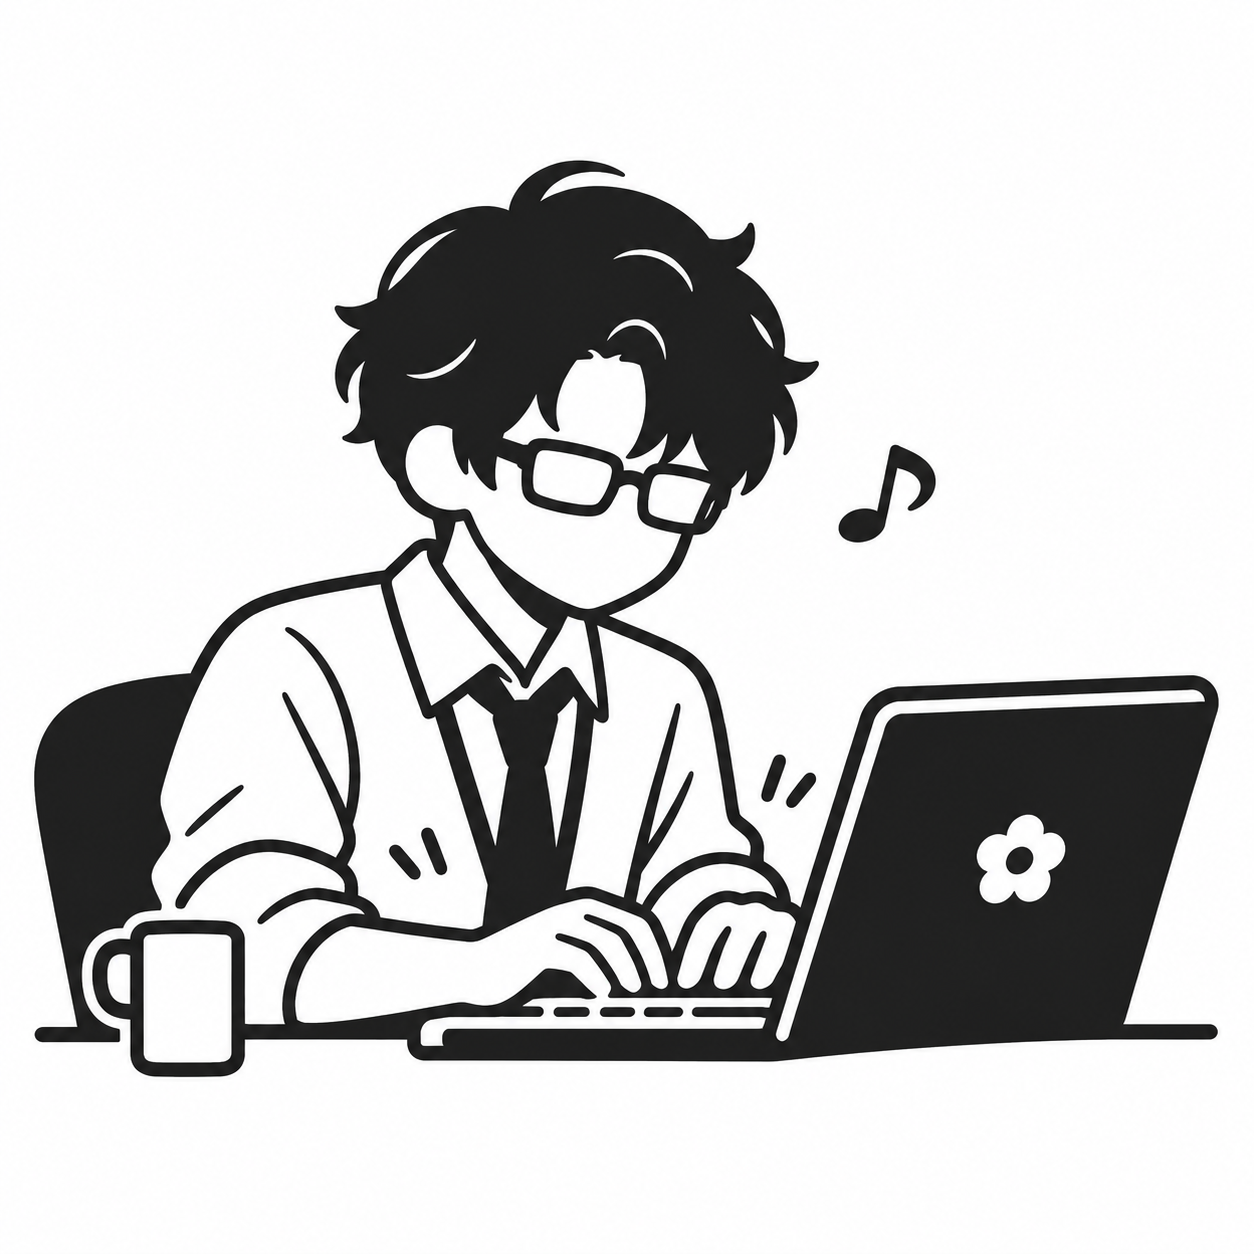
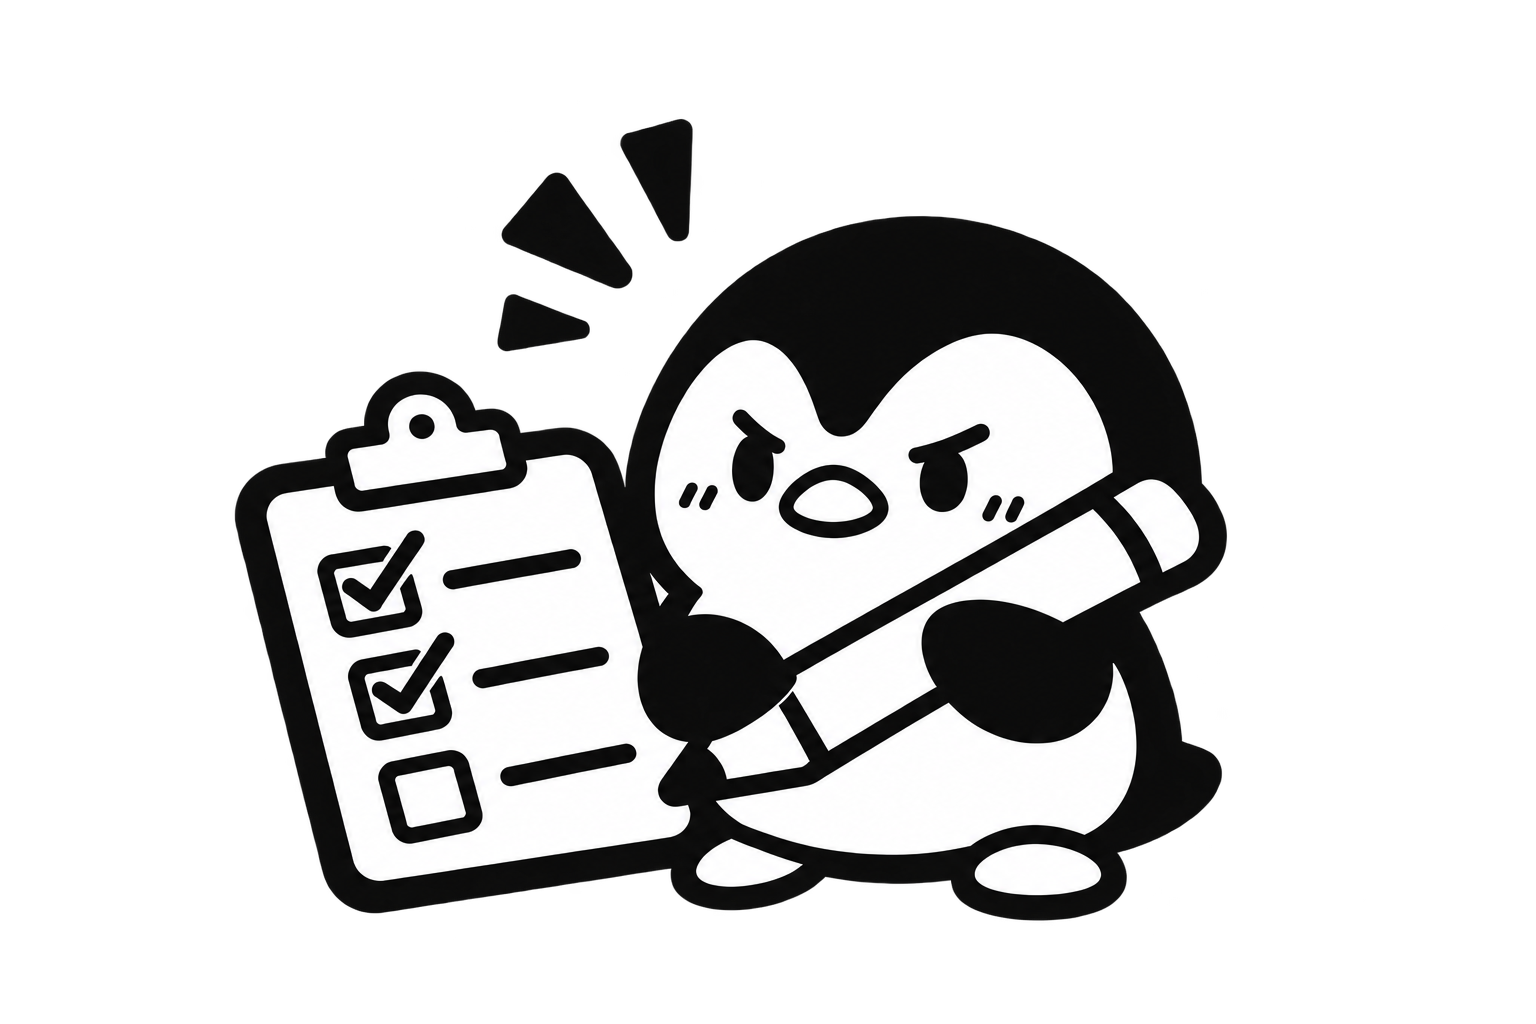
表デザイン修正

Changed region(s): [[0.0311, 0.0938, 0.9952, 0.9062]]

diff --git a/src/main/resources/templates/todos.html b/src/main/resources/templates/todos.html
@@ -4,39 +4,62 @@
     <meta charset="UTF-8">
     <meta name="viewport" content="width=device-width, initial-scale=1">
     <title>やること一覧</title>
-    <link rel="stylesheet" href="/css/style.css?v=20261126-2" th:href="@{/css/style.css(v='20261126-2')}">
+    <link rel="stylesheet" href="/css/style.css?v=20261126-6" th:href="@{/css/style.css(v='20261126-6')}">
 </head>
 <body>
     <main class="container">
-        <div class="page-heading"><h1 class="page-title">やること一覧</h1><img class="title-image" src="/images/todo-person.png" alt="" width="44" height="44"></div>
+        <header class="list-header">
+            <div class="page-heading"><h1 class="page-title">やること一覧</h1><img class="title-image" src="/images/todo-person.png" alt="" width="88" height="72"></div>
+            <nav class="list-actions" aria-label="一覧の操作">
+                <a class="btn sub" href="/calendar">カレンダーで見る</a>
+                <a class="btn" href="/todos/new">新規登録</a>
+            </nav>
+        </header>
         <p class="flash" th:if="${message}" th:text="${message}"></p>
-        <p><a class="btn" href="/todos/new">新規登録</a> <a class="link" href="/calendar">カレンダーで見る</a></p>
-        <form class="search-bar" action="/todos" method="get">
-            <label for="keyword">やることの名前</label>
-            <input class="form-input" id="keyword" type="text" name="keyword" th:value="${keyword}">
-            <label for="category">ジャンル</label>
-            <select class="form-input" id="category" name="category">
-                <option value="" th:selected="${category == ''}">すべて</option>
+        <form id="list-filters" class="list-filters" action="/todos" method="get" aria-label="やることの検索と並び替え">
+            <div class="filter-field filter-keyword">
+                <label for="keyword">やることの名前</label>
+                <input class="form-input" id="keyword" type="search" name="keyword" placeholder="名前で検索" th:value="${keyword}">
+            </div>
+            <div class="filter-field">
+                <label for="order">並び順</label>
+                <select class="form-input" id="order" name="order">
+                    <option value="asc" th:selected="${order == 'asc'}">期限が近い順</option>
+                    <option value="desc" th:selected="${order == 'desc'}">期限が遠い順</option>
+                </select>
+            </div>
+            <button class="btn filter-submit" type="submit">適用</button>
+            <a class="link filter-reset" href="/todos" th:if="${keyword != '' or category != '' or priority != null or completed != null or order == 'desc'}">条件をクリア</a>
+        </form>
+        <p th:if="${#lists.isEmpty(todos)}">条件に一致するやることがありません。</p>
+        <table class="todo-table">
+            <thead>
+                <tr>
+                    <th>やること</th>
+                    <th><select class="column-filter" id="category" name="category" form="list-filters" aria-label="ジャンルで絞り込み" onchange="this.form.requestSubmit()">
+                <option value="" th:selected="${category == ''}">ジャンル：すべて</option>
                 <option value="デザイン" th:selected="${category == 'デザイン'}">デザイン</option>
                 <option value="マーケティング" th:selected="${category == 'マーケティング'}">マーケティング</option>
                 <option value="プログラミング" th:selected="${category == 'プログラミング'}">プログラミング</option>
                 <option value="資格" th:selected="${category == '資格'}">資格</option>
                 <option value="就職活動" th:selected="${category == '就職活動'}">就職活動</option>
-            </select>
-            <input type="hidden" name="order" th:value="${order}">
-            <button class="btn" type="submit">絞り込む</button>
-            <a class="link" th:href="@{/todos(keyword=${keyword},category=${category},order='asc')}">期限が近い順</a>
-            <a class="link" th:href="@{/todos(keyword=${keyword},category=${category},order='desc')}">期限が遠い順</a>
-        </form>
-        <p th:if="${#lists.isEmpty(todos)}">まだ1件も登録されていません</p>
-        <table class="todo-table" th:unless="${#lists.isEmpty(todos)}">
-            <thead>
-                <tr>
-                    <th>やること</th>
-                    <th>ジャンル</th>
-                    <th>優先度</th>
+            </select></th>
+                    <th>
+                        <select class="column-filter" name="priority" form="list-filters" aria-label="優先度で絞り込み" onchange="this.form.requestSubmit()">
+                            <option value="" th:selected="${priority == null}">優先度：すべて</option>
+                            <option value="1" th:selected="${priority == 1}">高</option>
+                            <option value="2" th:selected="${priority == 2}">中</option>
+                            <option value="3" th:selected="${priority == 3}">低</option>
+                        </select>
+                    </th>
                     <th>期限</th>
-                    <th>状態</th>
+                    <th>
+                        <select class="column-filter" name="completed" form="list-filters" aria-label="状態で絞り込み" onchange="this.form.requestSubmit()">
+                            <option value="" th:selected="${completed == null}">状態：すべて</option>
+                            <option value="false" th:selected="${completed == false}">未完了</option>
+                            <option value="true" th:selected="${completed == true}">完了</option>
+                        </select>
+                    </th>
                     <th>操作</th>
                 </tr>
             </thead>
@@ -55,15 +78,15 @@
            th:text="|全${todoPage.totalElements}件中 ${startItem}-${endItem}件|">全50件中 1-10件</p>
         <nav class="pagination" aria-label="ページネーション" th:if="${todoPage.totalPages > 1}">
             <a class="page-link" th:if="${todoPage.hasPrevious()}"
-               th:href="@{/todos(page=${todoPage.number - 1},keyword=${keyword},category=${category},order=${order})}">前へ</a>
+               th:href="@{/todos(page=${todoPage.number - 1},keyword=${keyword},category=${category},priority=${priority},completed=${completed},order=${order})}">前へ</a>
             <span class="page-link disabled" th:unless="${todoPage.hasPrevious()}">前へ</span>
             <a class="page-link" th:each="pageNumber : ${#numbers.sequence(0, todoPage.totalPages - 1)}"
-               th:href="@{/todos(page=${pageNumber},keyword=${keyword},category=${category},order=${order})}"
+               th:href="@{/todos(page=${pageNumber},keyword=${keyword},category=${category},priority=${priority},completed=${completed},order=${order})}"
                th:text="${pageNumber + 1}"
                th:classappend="${pageNumber == todoPage.number} ? ' active' : ''"
                th:attr="aria-current=${pageNumber == todoPage.number ? 'page' : null}">1</a>
             <a class="page-link" th:if="${todoPage.hasNext()}"
-               th:href="@{/todos(page=${todoPage.number + 1},keyword=${keyword},category=${category},order=${order})}">次へ</a>
+               th:href="@{/todos(page=${todoPage.number + 1},keyword=${keyword},category=${category},priority=${priority},completed=${completed},order=${order})}">次へ</a>
             <span class="page-link disabled" th:unless="${todoPage.hasNext()}">次へ</span>
         </nav>
     </main>

diff --git a/src/main/resources/static/css/style.css b/src/main/resources/static/css/style.css
@@ -43,6 +43,11 @@ body {
     font-weight: bold;
 }
 
+.todo-table th:last-child,
+.todo-table td:last-child {
+    white-space: nowrap;
+}
+
 .flash {
     margin: 0 0 16px;
     border: 1px solid #b8aaa0;
@@ -225,11 +230,10 @@ body {
     margin: 0;
 }
 .title-image {
-    flex: 0 0 44px;
-    width: 44px;
-    height: 44px;
+    flex: 0 0 88px;
+    width: 88px;
+    height: 72px;
     object-fit: contain;
-    mix-blend-mode: multiply;
 }
 .todo-table td,
 .calendar-table td {
@@ -245,3 +249,66 @@ body {
     outline: 3px solid #a76b32;
     outline-offset: 3px;
 }
+
+.list-header {
+    display: flex;
+    align-items: center;
+    justify-content: space-between;
+    flex-wrap: wrap;
+    gap: 16px;
+    margin-bottom: 24px;
+}
+.list-header .page-heading { margin: 0; }
+.list-actions { display: flex; flex-wrap: wrap; gap: 10px; }
+.list-actions .btn { white-space: nowrap; }
+.list-filters {
+    display: grid;
+    grid-template-columns: minmax(180px, 1.5fr) minmax(150px, 1fr) auto;
+    align-items: end;
+    gap: 12px 16px;
+    margin: 0 0 24px;
+    padding: 20px;
+    border: 1px solid #c4bab3;
+    border-radius: 12px;
+    background: #f4ede7;
+}
+.filter-field { min-width: 0; }
+.filter-field label {
+    display: block;
+    margin-bottom: 6px;
+    font-size: 14px;
+    font-weight: 600;
+}
+.list-filters .form-input, .filter-submit { min-height: 44px; }
+.filter-reset {
+    grid-column: 1 / -1;
+    justify-self: start;
+    padding: 4px 0;
+    font-size: 14px;
+}
+@media (max-width: 760px) {
+    .list-filters {
+        grid-template-columns: minmax(0, 1fr) minmax(0, 1fr);
+        padding: 16px;
+    }
+    .filter-keyword, .filter-submit { grid-column: 1 / -1; }
+}
+@media (max-width: 420px) {
+    .list-filters { grid-template-columns: minmax(0, 1fr); }
+    .list-actions { width: 100%; }
+    .list-actions .btn { flex: 1; padding-inline: 12px; text-align: center; }
+}
+
+/* 一覧の列見出しから絞り込む */
+.column-filter {
+    font: inherit;
+    font-weight: inherit;
+    color: inherit;
+    background-color: transparent;
+    border: 1px solid currentColor;
+    border-radius: 4px;
+    padding: 6px 8px;
+    max-width: 100%;
+    cursor: pointer;
+}
+.column-filter option { color: #222; background: #fff; }

diff --git a/src/main/resources/templates/edit-confirm.html b/src/main/resources/templates/edit-confirm.html
@@ -4,11 +4,11 @@
     <meta charset="UTF-8">
     <meta name="viewport" content="width=device-width, initial-scale=1">
     <title>編集内容の確認</title>
-    <link rel="stylesheet" href="/css/style.css?v=20261126-2" th:href="@{/css/style.css(v='20261126-2')}">
+    <link rel="stylesheet" href="/css/style.css?v=20261126-5" th:href="@{/css/style.css(v='20261126-5')}">
 </head>
 <body>
     <main class="container">
-        <div class="page-heading"><h1 class="page-title">編集内容の確認</h1><img class="title-image" src="/images/todo-person.png" alt="" width="44" height="44"></div>
+        <div class="page-heading"><h1 class="page-title">編集内容の確認</h1><img class="title-image" src="/images/todo-person.png" alt="" width="88" height="72"></div>
         <p class="confirm-value">やること：<span th:text="${#strings.isEmpty(todo.title) ? '（入力なし）' : todo.title}">やること</span></p>
         <p class="confirm-value">メモ：<span th:text="${#strings.isEmpty(todo.detail) ? '（入力なし）' : todo.detail}">メモ</span></p>
         <p class="confirm-value">ジャンル：<span th:text="${#strings.isEmpty(todo.category) ? '（入力なし）' : todo.category}">ジャンル</span></p>

diff --git a/src/main/resources/templates/create-confirm.html b/src/main/resources/templates/create-confirm.html
@@ -4,11 +4,11 @@
     <meta charset="UTF-8">
     <meta name="viewport" content="width=device-width, initial-scale=1">
     <title>ToDo登録の確認</title>
-    <link rel="stylesheet" href="/css/style.css?v=20261126-2" th:href="@{/css/style.css(v='20261126-2')}">
+    <link rel="stylesheet" href="/css/style.css?v=20261126-5" th:href="@{/css/style.css(v='20261126-5')}">
 </head>
 <body>
     <main class="container">
-        <div class="page-heading"><h1 class="page-title">ToDo登録の確認</h1><img class="title-image" src="/images/todo-person.png" alt="" width="44" height="44"></div>
+        <div class="page-heading"><h1 class="page-title">ToDo登録の確認</h1><img class="title-image" src="/images/todo-person.png" alt="" width="88" height="72"></div>
         <p class="confirm-value">やること：<span th:text="${#strings.isEmpty(todo.title) ? '（入力なし）' : todo.title}">やること</span></p>
         <p class="confirm-value">メモ：<span th:text="${#strings.isEmpty(todo.detail) ? '（入力なし）' : todo.detail}">メモ</span></p>
         <p class="confirm-value">ジャンル：<span th:text="${#strings.isEmpty(todo.category) ? '（入力なし）' : todo.category}">ジャンル</span></p>

diff --git a/src/main/resources/templates/calendar.html b/src/main/resources/templates/calendar.html
@@ -4,11 +4,11 @@
     <meta charset="UTF-8">
     <meta name="viewport" content="width=device-width, initial-scale=1">
     <title>カレンダー</title>
-    <link rel="stylesheet" href="/css/style.css?v=20261126-2" th:href="@{/css/style.css(v='20261126-2')}">
+    <link rel="stylesheet" href="/css/style.css?v=20261126-5" th:href="@{/css/style.css(v='20261126-5')}">
 </head>
 <body>
     <main class="container">
-        <div class="page-heading"><h1 class="page-title" id="calendar-title" th:text="|${year}年${month}月|">2026年4月</h1><img class="title-image" src="/images/todo-person.png" alt="" width="44" height="44"></div>
+        <div class="page-heading"><h1 class="page-title" id="calendar-title" th:text="|${year}年${month}月|">2026年4月</h1><img class="title-image" src="/images/todo-person.png" alt="" width="88" height="72"></div>
         <nav class="calendar-navigation" aria-label="カレンダーの操作">
             <div class="calendar-navigation-group">
                 <a class="link" th:href="@{/calendar(year=${previousMonth.year},month=${previousMonth.monthValue})}">前の月</a>

diff --git a/src/main/resources/templates/delete.html b/src/main/resources/templates/delete.html
@@ -4,11 +4,11 @@
     <meta charset="UTF-8">
     <meta name="viewport" content="width=device-width, initial-scale=1">
     <title>やることの削除確認</title>
-    <link rel="stylesheet" href="/css/style.css?v=20261126-2" th:href="@{/css/style.css(v='20261126-2')}">
+    <link rel="stylesheet" href="/css/style.css?v=20261126-5" th:href="@{/css/style.css(v='20261126-5')}">
 </head>
 <body>
     <main class="container">
-        <div class="page-heading"><h1 class="page-title">やることの削除確認</h1><img class="title-image" src="/images/todo-person.png" alt="" width="44" height="44"></div>
+        <div class="page-heading"><h1 class="page-title">やることの削除確認</h1><img class="title-image" src="/images/todo-person.png" alt="" width="88" height="72"></div>
         <p class="confirm-value">やること：<span th:text="${todo.title}"></span></p>
         <p class="confirm-value">ジャンル：<span th:text="${todo.category}"></span></p>
         <p class="confirm-value">期限：<span th:text="${todo.dueDate != null ? todo.dueDate : '（入力なし）'}"></span></p>

diff --git a/src/main/resources/templates/edit.html b/src/main/resources/templates/edit.html
@@ -4,11 +4,11 @@
     <meta charset="UTF-8">
     <meta name="viewport" content="width=device-width, initial-scale=1">
     <title>やることを編集</title>
-    <link rel="stylesheet" href="/css/style.css?v=20261126-2" th:href="@{/css/style.css(v='20261126-2')}">
+    <link rel="stylesheet" href="/css/style.css?v=20261126-5" th:href="@{/css/style.css(v='20261126-5')}">
 </head>
 <body>
     <main class="container">
-        <div class="page-heading"><h1 class="page-title">やることを編集</h1><img class="title-image" src="/images/todo-person.png" alt="" width="44" height="44"></div>
+        <div class="page-heading"><h1 class="page-title">やることを編集</h1><img class="title-image" src="/images/todo-person.png" alt="" width="88" height="72"></div>
         <form method="post" th:action="@{/todos/{id}/confirm(id=${todoId})}" th:object="${todo}">
             <div class="form-row">
                 <label class="form-label" for="author">作成者</label>

diff --git a/src/main/resources/templates/create.html b/src/main/resources/templates/create.html
@@ -4,11 +4,11 @@
     <meta charset="UTF-8">
     <meta name="viewport" content="width=device-width, initial-scale=1">
     <title>ToDo登録</title>
-    <link rel="stylesheet" href="/css/style.css?v=20261126-2" th:href="@{/css/style.css(v='20261126-2')}">
+    <link rel="stylesheet" href="/css/style.css?v=20261126-5" th:href="@{/css/style.css(v='20261126-5')}">
 </head>
 <body>
     <main class="container">
-        <div class="page-heading"><h1 class="page-title">ToDo登録</h1><img class="title-image" src="/images/todo-person.png" alt="" width="44" height="44"></div>
+        <div class="page-heading"><h1 class="page-title">ToDo登録</h1><img class="title-image" src="/images/todo-person.png" alt="" width="88" height="72"></div>
         <form action="/todos/confirm" method="post" th:object="${todo}">
             <div class="form-row">
                 <label class="form-label" for="author">作成者</label>

diff --git a/src/main/resources/templates/index.html b/src/main/resources/templates/index.html
@@ -4,11 +4,11 @@
     <meta charset="UTF-8">
     <meta name="viewport" content="width=device-width, initial-scale=1">
     <title>ToDo</title>
-    <link rel="stylesheet" href="/css/style.css?v=20261126-2" th:href="@{/css/style.css(v='20261126-2')}">
+    <link rel="stylesheet" href="/css/style.css?v=20261126-5" th:href="@{/css/style.css(v='20261126-5')}">
 </head>
 <body>
     <main class="container">
-        <div class="page-heading"><h1 class="page-title" th:text="${title}">見出し</h1><img class="title-image" src="/images/todo-person.png" alt="" width="44" height="44"></div>
+        <div class="page-heading"><h1 class="page-title" th:text="${title}">見出し</h1><img class="title-image" src="/images/todo-person.png" alt="" width="88" height="72"></div>
         <p>今日やることを確認しましょう。</p>
     </main>
 </body>

diff --git a/src/main/java/com/example/todoapp/HomeController.java b/src/main/java/com/example/todoapp/HomeController.java
@@ -34,6 +34,8 @@ public class HomeController {
     public String todos(@RequestParam(defaultValue = "") String keyword,
                         @RequestParam(defaultValue = "") String category,
                         @RequestParam(defaultValue = "asc") String order,
+                        @RequestParam(required = false) Integer priority,
+                        @RequestParam(required = false) Boolean completed,
                         @PageableDefault(size = 10) Pageable pageable,
                         Model model) {
         if (!order.equals("desc")) {
@@ -41,11 +43,11 @@ public class HomeController {
         }
         int pageNumber = Math.max(0, pageable.getPageNumber());
         pageable = PageRequest.of(pageNumber, 10);
-        Page<Todo> todoPage = todoService.search(keyword, category, order, pageable);
+        Page<Todo> todoPage = todoService.search(keyword, category, order, priority, completed, null, null, pageable);
         if (todoPage.getTotalPages() > 0 && pageNumber >= todoPage.getTotalPages()) {
             pageNumber = todoPage.getTotalPages() - 1;
             pageable = PageRequest.of(pageNumber, 10);
-            todoPage = todoService.search(keyword, category, order, pageable);
+            todoPage = todoService.search(keyword, category, order, priority, completed, null, null, pageable);
         }
         model.addAttribute("todoPage", todoPage);
         model.addAttribute("todos", todoPage.getContent());
@@ -54,6 +56,8 @@ public class HomeController {
         model.addAttribute("keyword", keyword);
         model.addAttribute("category", category);
         model.addAttribute("order", order);
+        model.addAttribute("priority", priority);
+        model.addAttribute("completed", completed);
         return "todos";
     }
 

diff --git a/src/test/java/com/example/todoapp/TodoFilterTests.java b/src/test/java/com/example/todoapp/TodoFilterTests.java
@@ -1,0 +1,41 @@
+package com.example.todoapp;
+
+import java.util.HashMap;
+import java.util.Map;
+
+import org.apache.ibatis.builder.xml.XMLMapperBuilder;
+import org.apache.ibatis.io.Resources;
+import org.apache.ibatis.session.Configuration;
+import org.junit.jupiter.api.Test;
+
+import static org.junit.jupiter.api.Assertions.*;
+
+class TodoFilterTests {
+    @Test
+    void filtersApplyToBothRowsAndCountIncludingIncompleteStatus() throws Exception {
+        Configuration configuration = new Configuration();
+        try (var stream = Resources.getResourceAsStream("mapper/TodoMapper.xml")) {
+            new XMLMapperBuilder(stream, configuration, "mapper/TodoMapper.xml",
+                    configuration.getSqlFragments()).parse();
+        }
+        Map<String, Object> filters = new HashMap<>();
+        filters.put("category", "デザイン");
+        filters.put("priority", 1);
+        filters.put("completed", false);
+        for (String statement : new String[] {"searchPage", "countSearch"}) {
+            var mapped = configuration.getMappedStatement("com.example.todoapp.TodoMapper." + statement);
+            var bound = mapped.getBoundSql(filters);
+            String sql = bound.getSql().replaceAll("\\s+", " ");
+            assertTrue(sql.contains("category = ?"));
+            assertTrue(sql.contains("priority = ?"));
+            assertTrue(sql.contains("completed = ?"));
+            filters.remove("priority");
+            filters.remove("completed");
+            String cleared = mapped.getBoundSql(filters).getSql();
+            assertFalse(cleared.contains("AND priority ="));
+            assertFalse(cleared.contains("AND completed ="));
+            filters.put("priority", 1);
+            filters.put("completed", false);
+        }
+    }
+}

diff --git a/src/main/java/com/example/todoapp/TodoService.java b/src/main/java/com/example/todoapp/TodoService.java
@@ -25,9 +25,15 @@ public class TodoService {
 
     public Page<Todo> search(String keyword, String category, String order,
                              LocalDate from, LocalDate to, Pageable pageable) {
+        return search(keyword, category, order, null, null, from, to, pageable);
+    }
+
+    public Page<Todo> search(String keyword, String category, String order,
+                             Integer priority, Boolean completed,
+                             LocalDate from, LocalDate to, Pageable pageable) {
         List<Todo> todos = todoMapper.searchPage(
-                keyword, category, order, from, to, pageable.getPageSize(), pageable.getOffset());
-        long total = todoMapper.countSearch(keyword, category, from, to);
+                keyword, category, order, priority, completed, from, to, pageable.getPageSize(), pageable.getOffset());
+        long total = todoMapper.countSearch(keyword, category, priority, completed, from, to);
         return new PageImpl<>(todos, pageable, total);
     }
 
